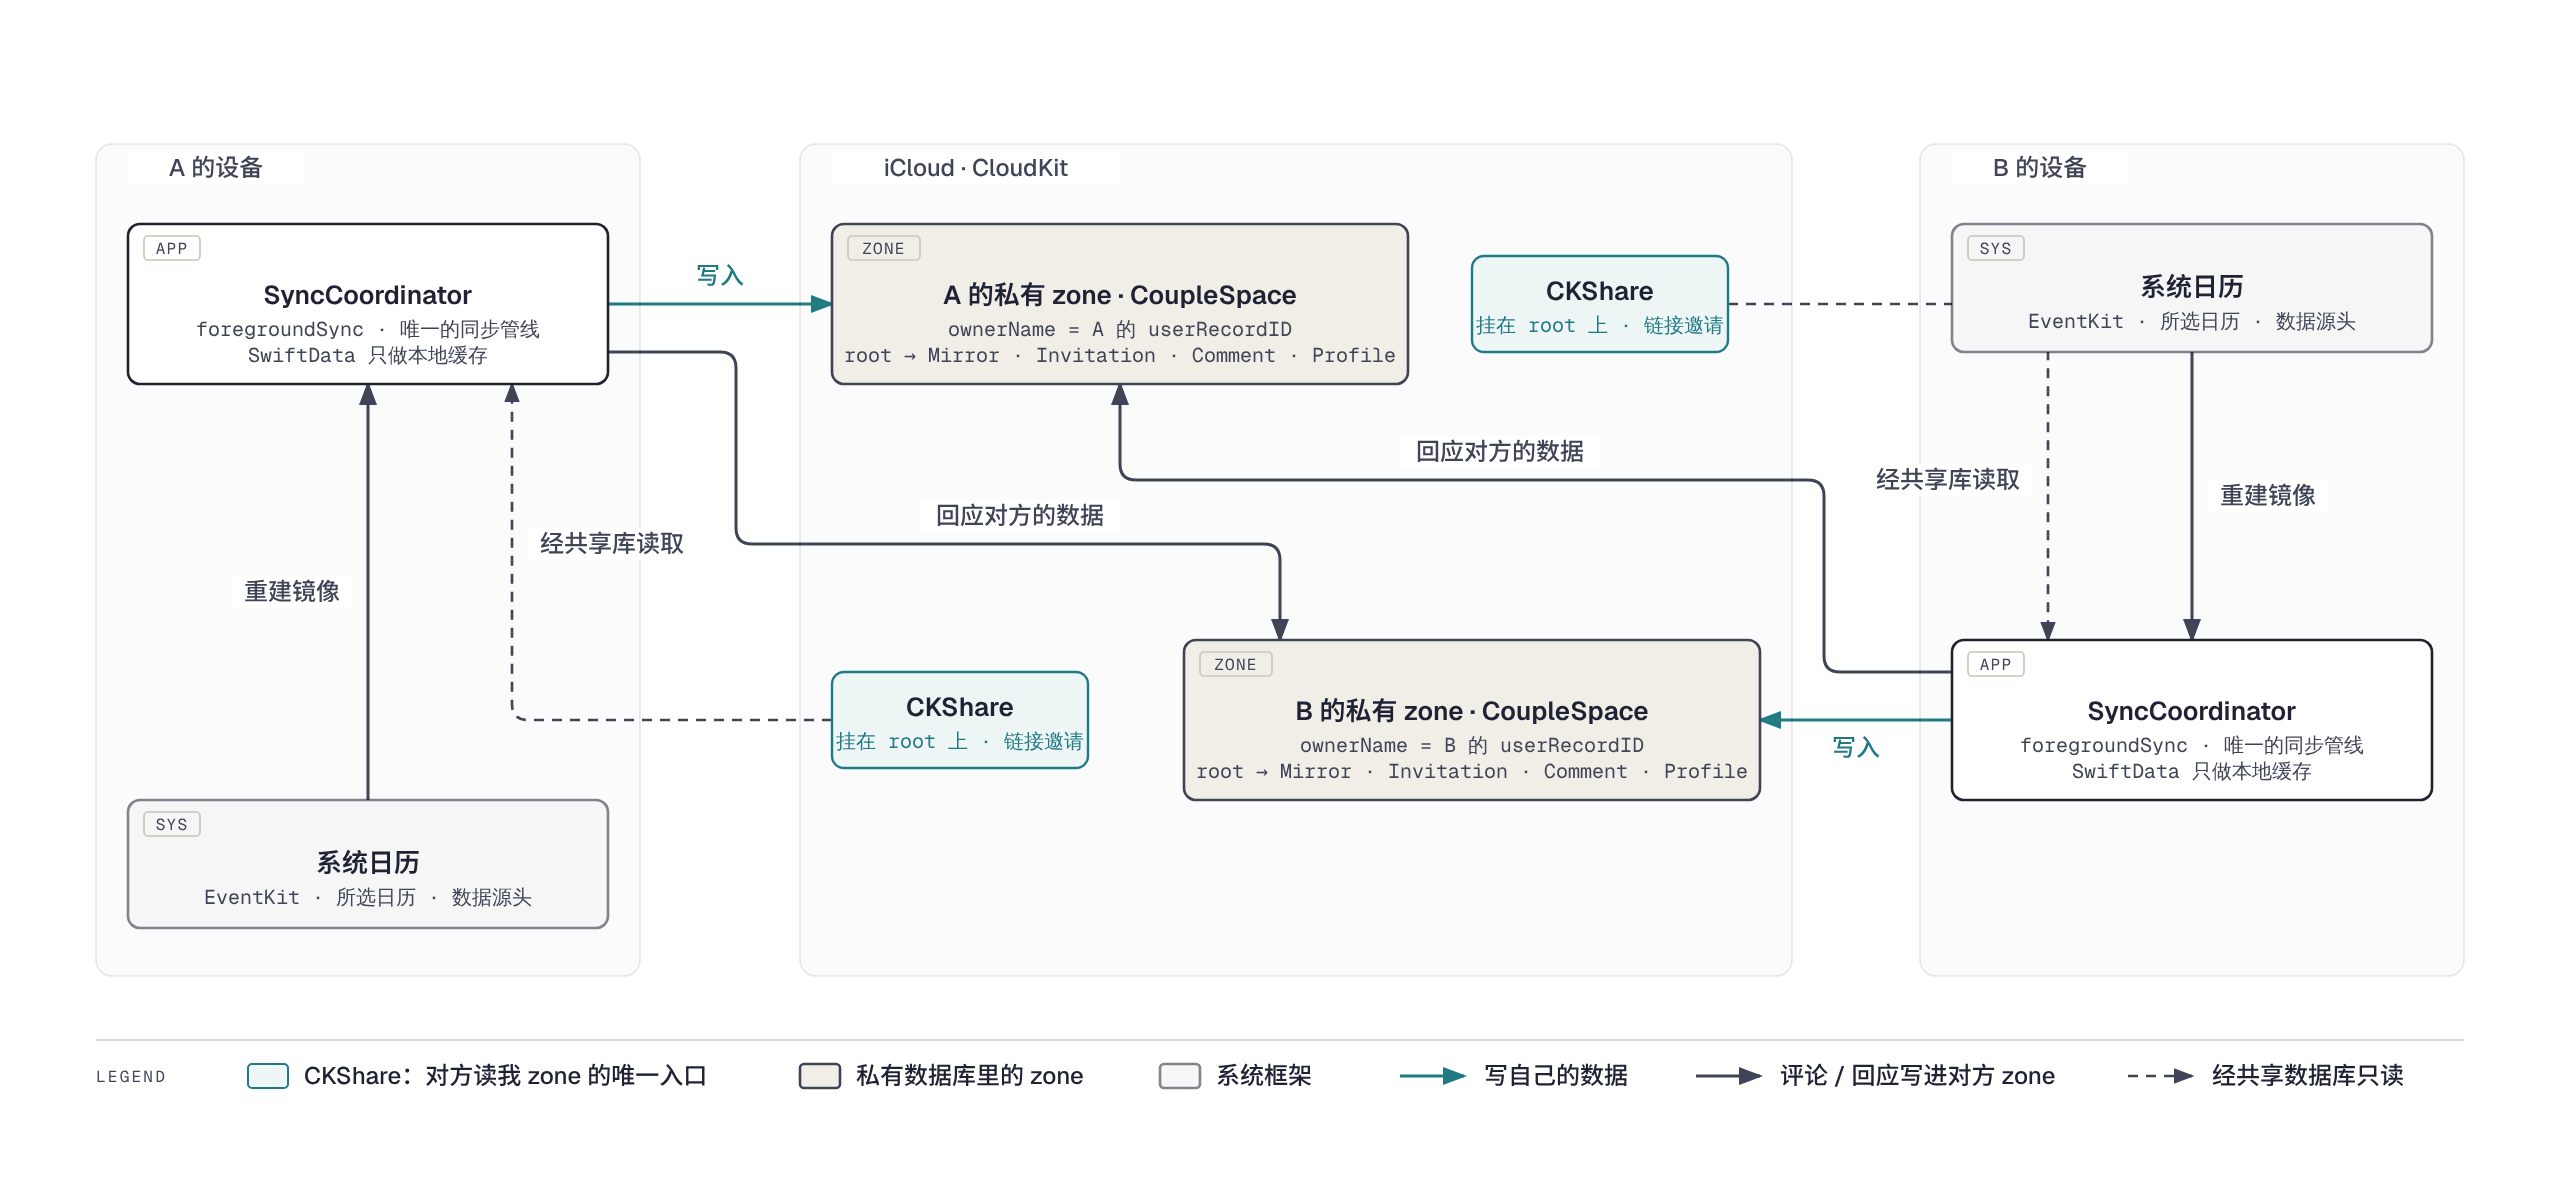
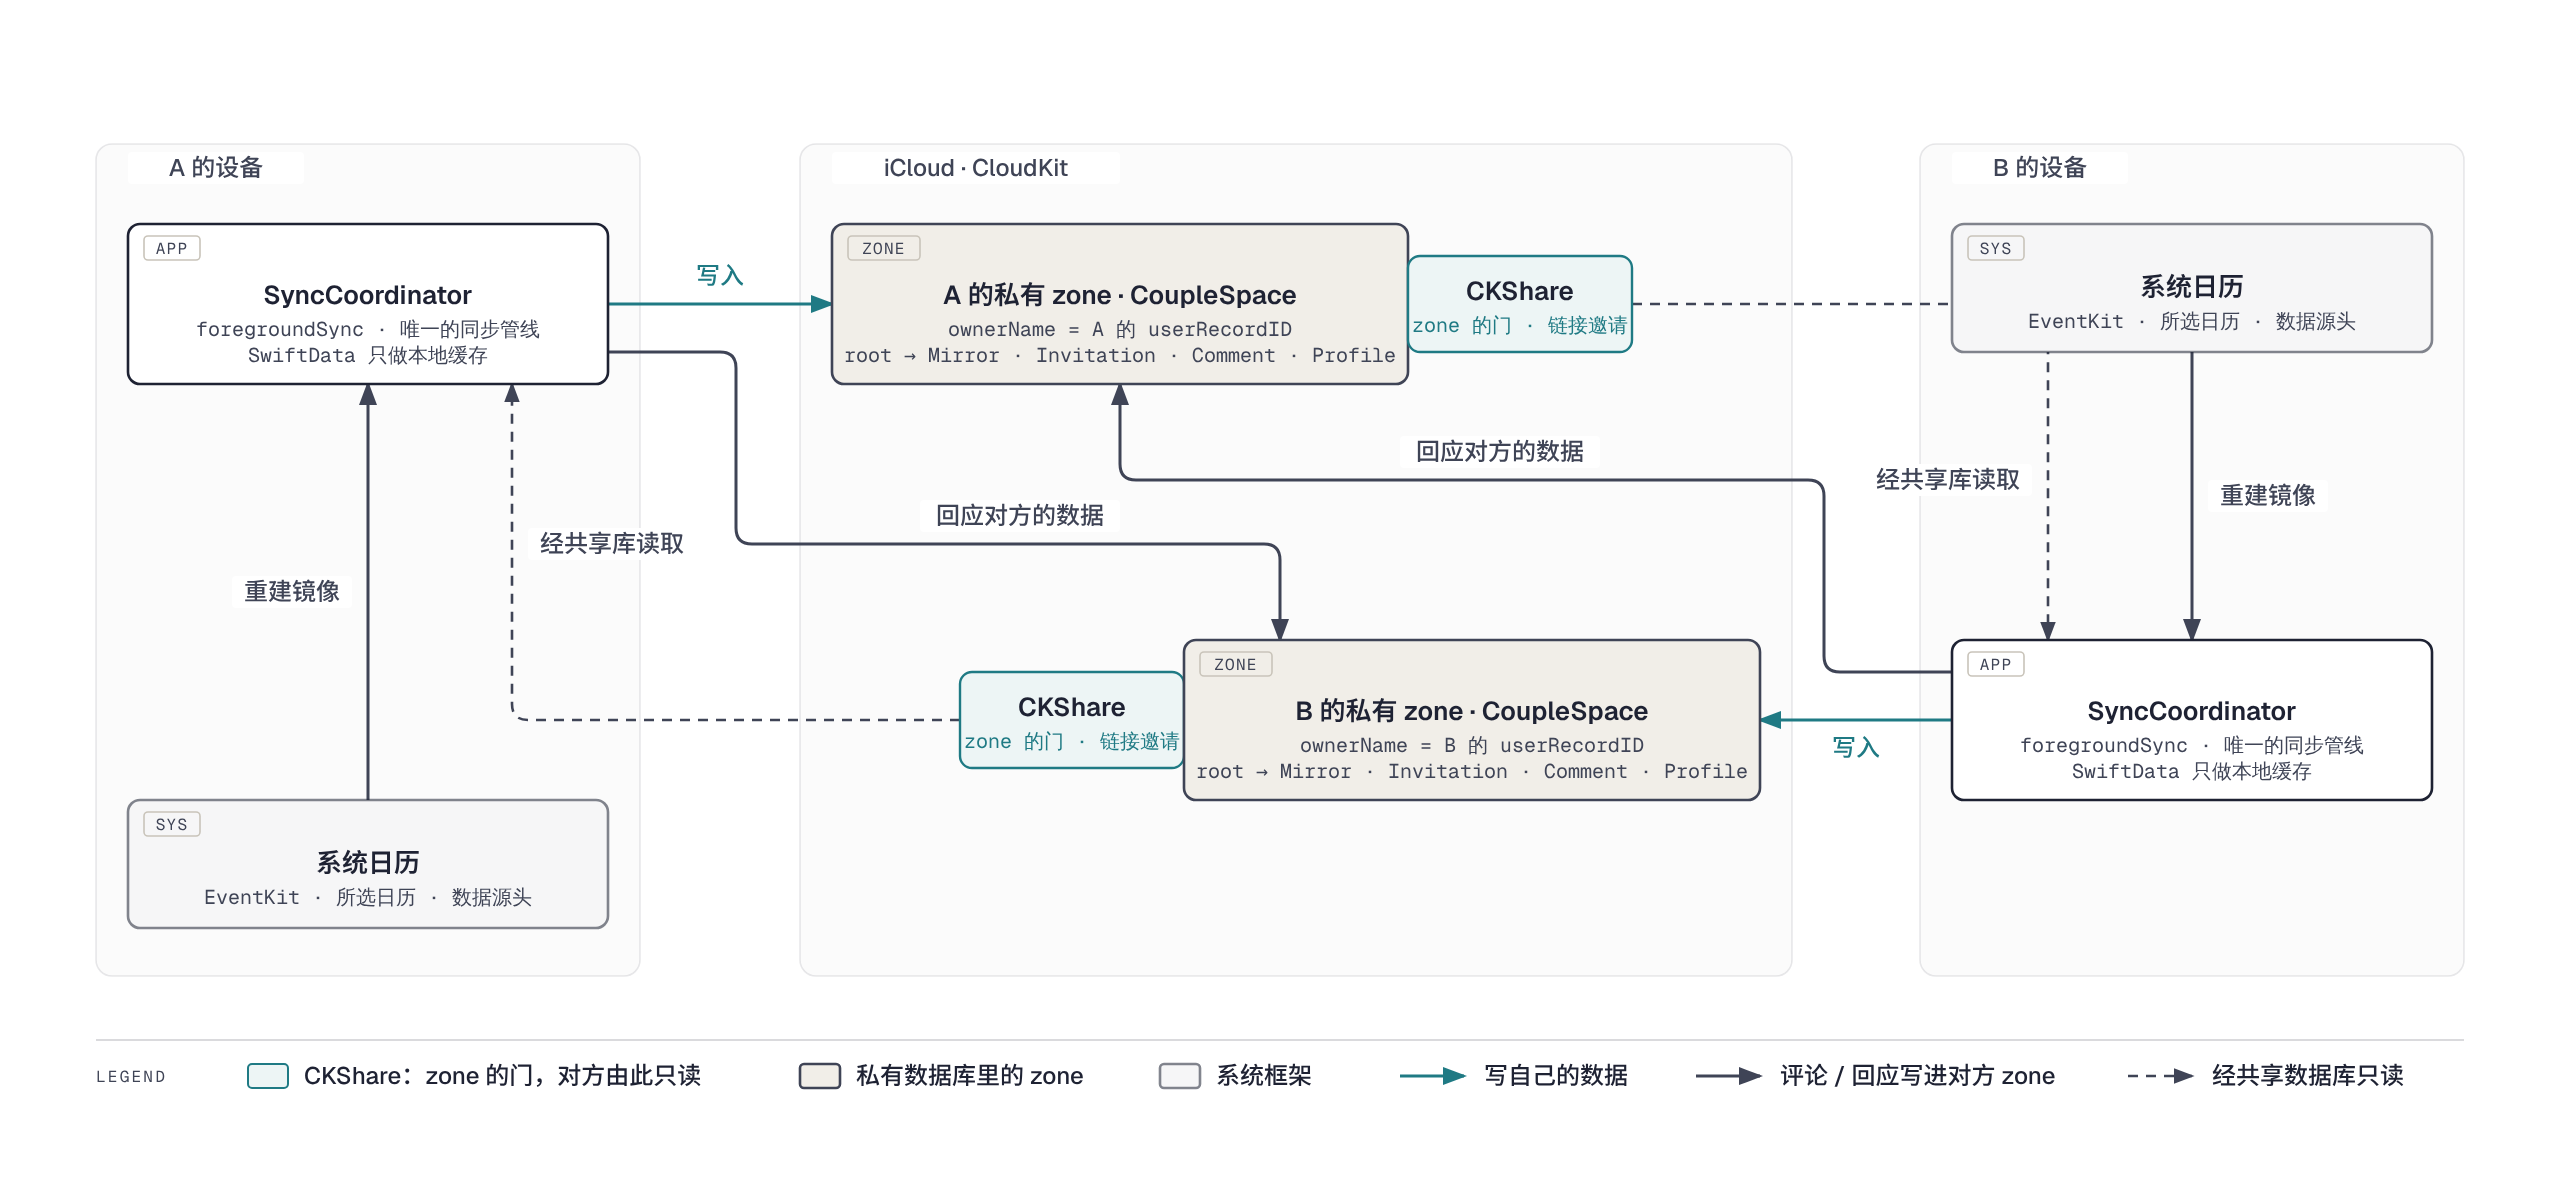
docs: 架构图里把 CKShare 贴到 zone 边上作为对方只读的门
Claude-Session: https://claude.ai/code/session_014NHEfgHg5LSiKQ1dnsEyMQ

Changed region(s): [[0.3125, 0.5541, 0.4688, 0.6464], [0.5625, 0.2155, 0.6875, 0.3078], [0.1562, 0.8619, 0.2812, 0.9235]]

diff --git a/docs/diagrams/sync-architecture.html b/docs/diagrams/sync-architecture.html
@@ -59,10 +59,10 @@
       <line x1="304" y1="152" x2="416" y2="152" stroke="var(--accent)" stroke-width="1.5" marker-end="url(#arrow-accent)"/>
       <rect x="340" y="130" width="40" height="16" rx="2" fill="var(--paper)"/>
       <text x="360" y="142" fill="var(--accent)" font-size="12" font-weight="500" text-anchor="middle">写入</text>
-      <path d="M864,152 H1016 Q1024,152 1024,160 V320" fill="none" stroke="var(--muted)" stroke-width="1.3" stroke-dasharray="5,4" marker-end="url(#arrow)"/>
+      <path d="M816,152 H1016 Q1024,152 1024,160 V320" fill="none" stroke="var(--muted)" stroke-width="1.3" stroke-dasharray="5,4" marker-end="url(#arrow)"/>
       <rect x="932" y="232" width="84" height="16" rx="2" fill="var(--paper)"/>
       <text x="974" y="244" fill="var(--soft)" font-size="12" font-weight="500" text-anchor="middle">经共享库读取</text>
-      <path d="M416,360 H264 Q256,360 256,352 V192" fill="none" stroke="var(--muted)" stroke-width="1.3" stroke-dasharray="5,4" marker-end="url(#arrow)"/>
+      <path d="M480,360 H264 Q256,360 256,352 V192" fill="none" stroke="var(--muted)" stroke-width="1.3" stroke-dasharray="5,4" marker-end="url(#arrow)"/>
       <rect x="264" y="264" width="84" height="16" rx="2" fill="var(--paper)"/>
       <text x="306" y="276" fill="var(--soft)" font-size="12" font-weight="500" text-anchor="middle">经共享库读取</text>
       <path d="M304,176 H360 Q368,176 368,184 V264 Q368,272 376,272 H632 Q640,272 640,280 V320" fill="none" stroke="var(--muted)" stroke-width="1.5" marker-end="url(#arrow)"/>
@@ -99,14 +99,14 @@
       <text x="560" y="152" fill="var(--ink)" font-size="13" font-weight="600" text-anchor="middle">A 的私有 zone · CoupleSpace</text>
       <text x="560" y="168" fill="var(--muted)" font-size="10" font-family="var(--font-mono)" text-anchor="middle">ownerName = A 的 userRecordID</text>
       <text x="560" y="181" fill="var(--muted)" font-size="10" font-family="var(--font-mono)" text-anchor="middle">root → Mirror · Invitation · Comment · Profile</text>
-      <rect x="736" y="128" width="128" height="48" rx="6" fill="var(--paper)"/>
-      <rect x="736" y="128" width="128" height="48" rx="6" fill="var(--accent-tint)" stroke="var(--accent)" stroke-width="1.2"/>
-      <text x="800" y="150" fill="var(--ink)" font-size="13" font-weight="600" text-anchor="middle">CKShare</text>
-      <text x="800" y="166" fill="var(--accent)" font-size="10" font-family="var(--font-mono)" text-anchor="middle">挂在 root 上 · 链接邀请</text>
-      <rect x="416" y="336" width="128" height="48" rx="6" fill="var(--paper)"/>
-      <rect x="416" y="336" width="128" height="48" rx="6" fill="var(--accent-tint)" stroke="var(--accent)" stroke-width="1.2"/>
-      <text x="480" y="358" fill="var(--ink)" font-size="13" font-weight="600" text-anchor="middle">CKShare</text>
-      <text x="480" y="374" fill="var(--accent)" font-size="10" font-family="var(--font-mono)" text-anchor="middle">挂在 root 上 · 链接邀请</text>
+      <rect x="704" y="128" width="112" height="48" rx="6" fill="var(--paper)"/>
+      <rect x="704" y="128" width="112" height="48" rx="6" fill="var(--accent-tint)" stroke="var(--accent)" stroke-width="1.2"/>
+      <text x="760" y="150" fill="var(--ink)" font-size="13" font-weight="600" text-anchor="middle">CKShare</text>
+      <text x="760" y="166" fill="var(--accent)" font-size="10" font-family="var(--font-mono)" text-anchor="middle">zone 的门 · 链接邀请</text>
+      <rect x="480" y="336" width="112" height="48" rx="6" fill="var(--paper)"/>
+      <rect x="480" y="336" width="112" height="48" rx="6" fill="var(--accent-tint)" stroke="var(--accent)" stroke-width="1.2"/>
+      <text x="536" y="358" fill="var(--ink)" font-size="13" font-weight="600" text-anchor="middle">CKShare</text>
+      <text x="536" y="374" fill="var(--accent)" font-size="10" font-family="var(--font-mono)" text-anchor="middle">zone 的门 · 链接邀请</text>
       <rect x="592" y="320" width="288" height="80" rx="6" fill="var(--paper)"/>
       <rect x="592" y="320" width="288" height="80" rx="6" fill="var(--paper-2)" stroke="var(--muted)" stroke-width="1.3"/>
       <rect x="600" y="326" width="36" height="12" rx="2" fill="transparent" stroke="var(--rule-solid)" stroke-width="0.8"/>
@@ -132,7 +132,7 @@
       <line x1="48" y1="520" x2="1232" y2="520" stroke="var(--rule)" stroke-width="0.8"/>
       <text x="48" y="541" fill="var(--muted)" font-size="8" font-family="var(--font-mono)" letter-spacing="0.14em">LEGEND</text>
       <rect x="124" y="532" width="20" height="12" rx="2" fill="var(--accent-tint)" stroke="var(--accent)" stroke-width="1"/>
-      <text x="152" y="542" fill="var(--ink)" font-size="12" font-weight="500">CKShare：对方读我 zone 的唯一入口</text>
+      <text x="152" y="542" fill="var(--ink)" font-size="12" font-weight="500">CKShare：zone 的门，对方由此只读</text>
       <rect x="400" y="532" width="20" height="12" rx="2" fill="var(--paper-2)" stroke="var(--muted)" stroke-width="1.3"/>
       <text x="428" y="542" fill="var(--ink)" font-size="12" font-weight="500">私有数据库里的 zone</text>
       <rect x="580" y="532" width="20" height="12" rx="2" fill="var(--ext-fill)" stroke="var(--ext-stroke)" stroke-width="1.3"/>
